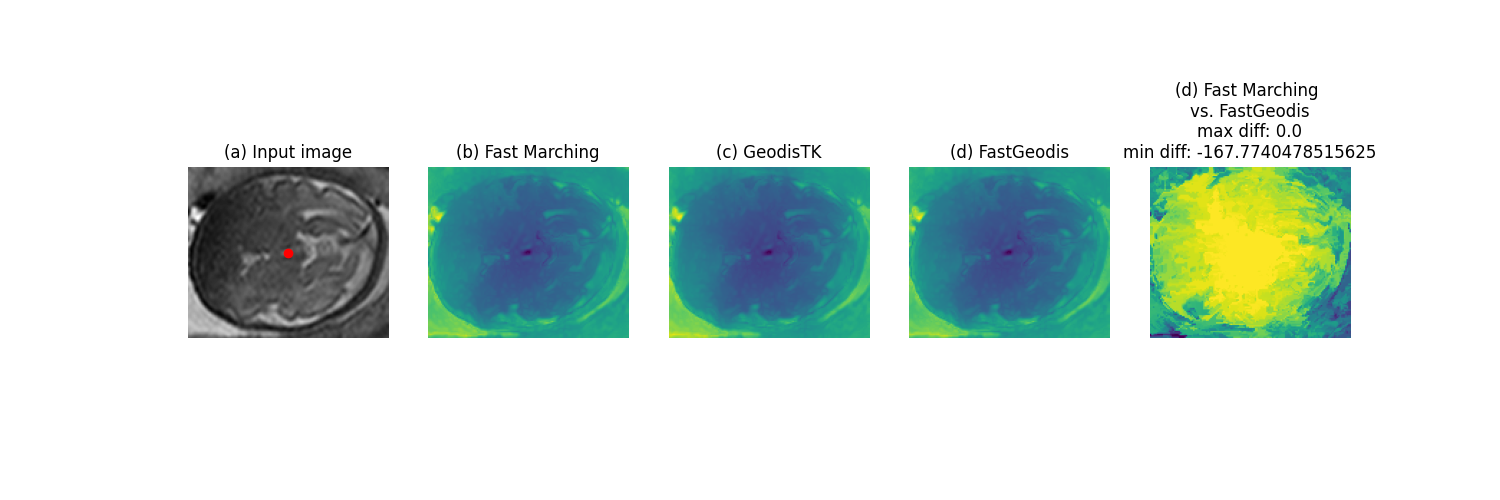
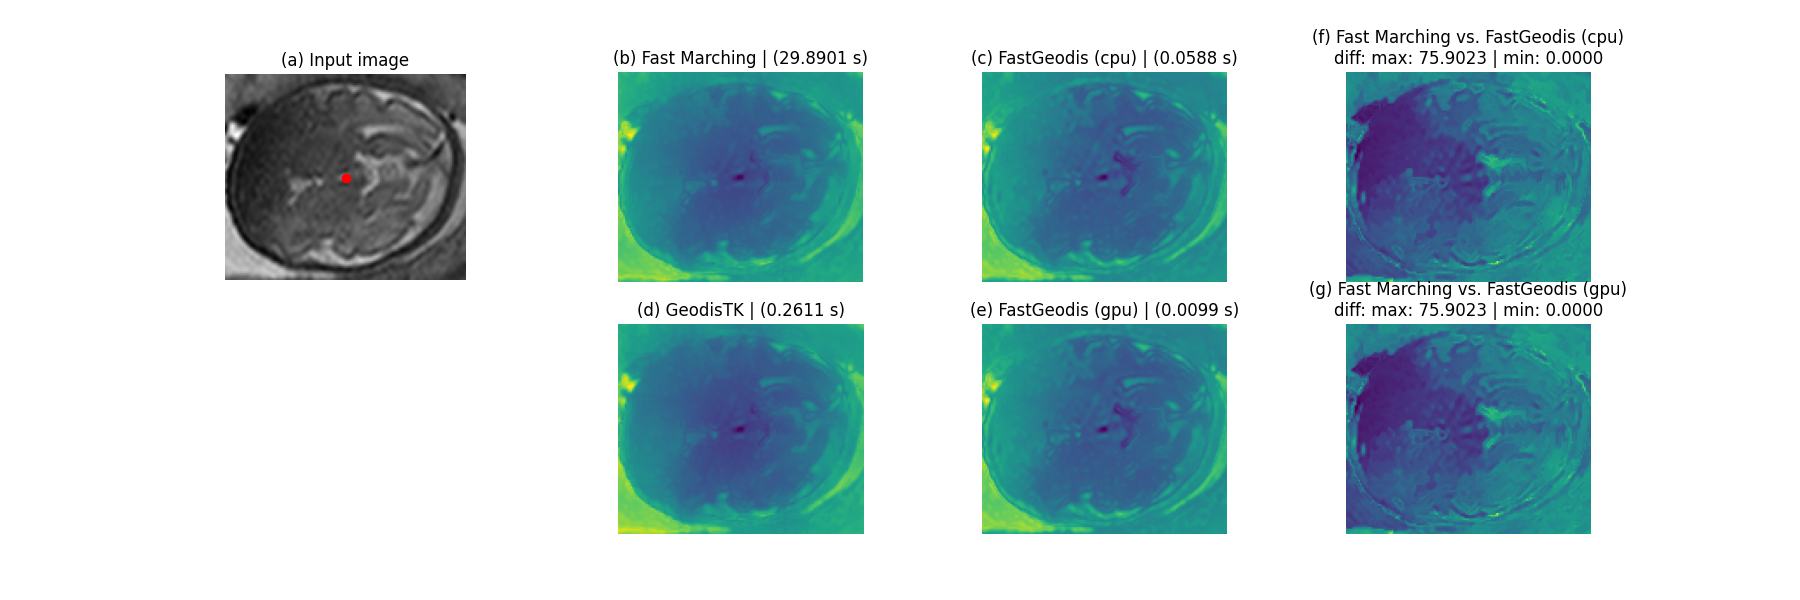
update demo codes

diff --git a/samples/demo3d.py b/samples/demo3d.py
@@ -1,13 +1,15 @@
 import math
+import os
 import time
 from functools import wraps
 
-import torch
 import FastGeodis
 import GeodisTK
 import matplotlib.pyplot as plt
 import numpy as np
 import SimpleITK as sitk
+import torch
+
 
 def geodistk_geodesic_distance_3d(I, S, spacing, lamb, iter):
     """Compute Geodesic Distance using GeodisTK raster scanning.
@@ -26,102 +28,177 @@ def geodistk_geodesic_distance_3d(I, S, spacing, lamb, iter):
     return GeodisTK.geodesic3d_raster_scan(I, S, spacing, lamb, iter)
 
 
-def demo_geodesic_distance3d():
+def demo_geodesic_distance3d(image_path, seed_pos):
     SHOW_JOINT_HIST = False
-    input_name = "data/img3d.nii.gz"
-    img = sitk.ReadImage(input_name)
-    I = sitk.GetArrayFromImage(img)
-    spacing_raw = img.GetSpacing()
+    image_folder = os.path.dirname(image_path)
+    image_sitk = sitk.ReadImage(image_path)
+    input_image = sitk.GetArrayFromImage(image_sitk)
+    spacing_raw = image_sitk.GetSpacing()
     spacing = [spacing_raw[2], spacing_raw[1], spacing_raw[0]]
-    I = np.asarray(I, np.float32)
-    I = I[18:38, 63:183, 93:233]
-    S = np.zeros_like(I, np.uint8)
-    S[10][60][70] = 1
-    t0 = time.time()
-    D1 = GeodisTK.geodesic3d_fast_marching(I, S, spacing)
-    t1 = time.time()
-    D2 = geodistk_geodesic_distance_3d(I, S, spacing, 1.0, 4)
-    dt1 = t1 - t0
-    dt2 = time.time() - t1
-    It = torch.from_numpy(I).unsqueeze_(0).unsqueeze_(0)
-    St = torch.from_numpy(1 - S.astype(np.float32)).unsqueeze_(0).unsqueeze_(0)
-    D3 = np.squeeze(
-        FastGeodis.generalised_geodesic3d(
-            It, St, spacing, 1e10, 1.0, 4
-        ).numpy()
+
+    input_image = np.asarray(input_image, np.float32)
+    input_image = input_image[18:38, 63:183, 93:233]
+    seed_image = np.zeros_like(input_image, np.uint8)
+    seed_image[seed_pos[0]][seed_pos[1]][seed_pos[2]] = 1
+
+    tic = time.time()
+    fastmarch_output = GeodisTK.geodesic3d_fast_marching(
+        input_image, seed_image, spacing
     )
-    print("runtime(s) fast marching {0:}".format(dt1))
-    print("runtime(s) raster scan   {0:}".format(dt2))
+    fastmarch_time = time.time() - tic
 
-    img_d1 = sitk.GetImageFromArray(D1)
-    img_d1.SetSpacing(spacing_raw)
-    sitk.WriteImage(img_d1, "data/image3d_dis1.nii.gz")
+    tic = time.time()
+    geodistkraster_output = geodistk_geodesic_distance_3d(
+        input_image, seed_image, spacing, 1.0, 4
+    )
+    geodistkraster_time = time.time() - tic
 
-    img_d2 = sitk.GetImageFromArray(D2)
-    img_d2.SetSpacing(spacing_raw)
-    sitk.WriteImage(img_d2, "data/image3d_dis2.nii.gz")
+    device = "cpu"
+    input_image_pt = torch.from_numpy(input_image).unsqueeze_(0).unsqueeze_(0)
+    seed_image_pt = (
+        torch.from_numpy(1 - seed_image.astype(np.float32)).unsqueeze_(0).unsqueeze_(0)
+    )
+    input_image_pt = input_image_pt.to(device)
+    seed_image_pt = seed_image_pt.to(device)
+    tic = time.time()
+    fastraster_output_cpu = np.squeeze(
+        FastGeodis.generalised_geodesic3d(
+            input_image_pt, seed_image_pt, spacing, 1e10, 1.0, 4
+        )
+        .detach()
+        .cpu()
+        .numpy()
+    )
+    fastraster_time_cpu = time.time() - tic
 
-    img_d3 = sitk.GetImageFromArray(D3)
+    device = (
+        "cuda" if input_image_pt.shape[1] == 1 and torch.cuda.is_available() else None
+    )
+    if device:
+        input_image_pt = input_image_pt.to(device)
+        seed_image_pt = seed_image_pt.to(device)
+        tic = time.time()
+        fastraster_output_gpu = np.squeeze(
+            FastGeodis.generalised_geodesic3d(
+                input_image_pt, seed_image_pt, spacing, 1e10, 1.0, 4
+            )
+            .detach()
+            .cpu()
+            .numpy()
+        )
+        fastraster_time_gpu = time.time() - tic
+
+    print(
+        "Fast Marching: {:.6f} s \nGeodisTk raster: {:.6f} s \nFastGeodis CPU raster: {:.6f} s".format(
+            fastmarch_time, geodistkraster_time, fastraster_time_cpu
+        )
+    )
+    if device:
+        print("FastGeodis GPU raster: {:.6f} s".format(fastraster_time_gpu))
+
+    img_fastmarch_output = sitk.GetImageFromArray(fastmarch_output)
+    img_fastmarch_output.SetSpacing(spacing_raw)
+    sitk.WriteImage(
+        img_fastmarch_output, os.path.join(image_folder, "image3d_dis1.nii.gz")
+    )
+
+    img_geodistkraster_output = sitk.GetImageFromArray(geodistkraster_output)
+    img_geodistkraster_output.SetSpacing(spacing_raw)
+    sitk.WriteImage(
+        img_geodistkraster_output, os.path.join(image_folder, "image3d_dis2.nii.gz")
+    )
+
+    img_d3 = sitk.GetImageFromArray(fastraster_output_cpu)
     img_d3.SetSpacing(spacing_raw)
-    sitk.WriteImage(img_d3, "data/image3d_dis3.nii.gz")
+    sitk.WriteImage(img_d3, os.path.join(image_folder, "image3d_dis3.nii.gz"))
 
-    I_sub = sitk.GetImageFromArray(I)
-    I_sub.SetSpacing(spacing_raw)
-    sitk.WriteImage(I_sub, "data/image3d_sub.nii.gz")
+    input_image_sub = sitk.GetImageFromArray(input_image)
+    input_image_sub.SetSpacing(spacing_raw)
+    sitk.WriteImage(input_image_sub, os.path.join(image_folder, "image3d_sub.nii.gz"))
 
-    I = I * 255 / I.max()
-    I = np.asarray(I, np.uint8)
+    input_image = input_image * 255 / input_image.max()
+    input_image = np.asarray(input_image, np.uint8)
 
-    I_slice = I[10]
-    D1_slice = D1[10]
-    D2_slice = D2[10]
-    D3_slice = D3[10]
-    plt.figure(figsize=(15, 5))
-    plt.subplot(1, 5, 1)
-    plt.imshow(I_slice, cmap="gray")
+    image_slice = input_image[10]
+    fastmarch_output_slice = fastmarch_output[10]
+    geodistkraster_output_slice = geodistkraster_output[10]
+    fastraster_output_cpu_slice = fastraster_output_cpu[10]
+    if device:
+        fastraster_output_gpu_slice = fastraster_output_gpu[10]
+
+    plt.figure(figsize=(18, 6))
+    plt.subplot(2, 5, 1)
+    plt.imshow(image_slice, cmap="gray")
     plt.autoscale(False)
     plt.plot([70], [60], "ro")
     plt.axis("off")
     plt.title("(a) Input image")
 
-    plt.subplot(1, 5, 2)
-    plt.imshow(D1_slice)
+    plt.subplot(2, 4, 2)
+    plt.imshow(fastmarch_output_slice)
     plt.axis("off")
-    plt.title("(b) Fast Marching")
+    plt.title("(b) Fast Marching | ({:.4f} s)".format(fastmarch_time))
 
-    plt.subplot(1, 5, 3)
-    plt.imshow(D2_slice)
+    plt.subplot(2, 4, 3)
+    plt.imshow(fastraster_output_cpu_slice)
     plt.axis("off")
-    plt.title("(c) GeodisTK")
+    plt.title("(c) FastGeodis (cpu) | ({:.4f} s)".format(fastraster_time_cpu))
 
-    plt.subplot(1, 5, 4)
-    plt.imshow(D3_slice)
+    plt.subplot(2, 4, 6)
+    plt.imshow(geodistkraster_output_slice)
     plt.axis("off")
-    plt.title("(d) FastGeodis")
+    plt.title("(d) GeodisTK | ({:.4f} s)".format(geodistkraster_time))
 
-    diff = D1 - D3
-    diff_slice = diff[10]
-    plt.subplot(1, 5, 5)
+    if device:
+        plt.subplot(2, 4, 7)
+        plt.imshow(fastraster_output_gpu_slice)
+        plt.axis("off")
+        plt.title("(e) FastGeodis (gpu) | ({:.4f} s)".format(fastraster_time_gpu))
+
+    diff = (
+        abs(fastmarch_output - fastraster_output_cpu) / (fastmarch_output + 1e-7) * 100
+    )
+    diff_vol = fastmarch_output - fastraster_output_cpu
+    diff_slice = diff_vol[10]
+    plt.subplot(2, 4, 4)
     plt.imshow(diff_slice)
     plt.axis("off")
     plt.title(
-        "(d) Fast Marching \nvs. FastGeodis\nmax diff: {}\nmin diff: {}".format(
+        "(f) Fast Marching vs. FastGeodis (cpu)\ndiff: max: {:.4f} | min: {:.4f}".format(
             np.max(diff), np.min(diff)
         )
     )
+
+    if device:
+        diff = (
+            abs(fastmarch_output - fastraster_output_gpu)
+            / (fastmarch_output + 1e-7)
+            * 100
+        )
+        diff_vol = fastmarch_output - fastraster_output_gpu
+        diff_slice = diff_vol[10]
+        plt.subplot(2, 4, 8)
+        plt.imshow(diff_slice)
+        plt.axis("off")
+        plt.title(
+            "(g) Fast Marching vs. FastGeodis (gpu)\ndiff: max: {:.4f} | min: {:.4f}".format(
+                np.max(diff), np.min(diff)
+            )
+        )
+
     plt.show()
 
-    if SHOW_JOINT_HIST: 
+    if SHOW_JOINT_HIST:
         plt.figure()
         plt.subplot(1, 2, 1)
-        plt.hist2d(D1.flatten(), D2.flatten(), bins=50)
+        plt.hist2d(fastmarch_output.flatten(), geodistkraster_output.flatten(), bins=50)
         plt.xlabel("Fast Marching")
         plt.ylabel("GeodisTK")
         plt.title("Joint histogram\nFast Marching vs. GeodisTK")
         # plt.gca().set_aspect("equal", adjustable="box")
 
         plt.subplot(1, 2, 2)
-        plt.hist2d(D1.flatten(), D3.flatten(), bins=50)
+        plt.hist2d(fastmarch_output.flatten(), fastraster_output_cpu.flatten(), bins=50)
         plt.xlabel("Fast Marching")
         plt.ylabel("FastGeodis")
         plt.title("Joint histogram\nFast Marching vs. FastGeodis")
@@ -132,4 +209,4 @@ def demo_geodesic_distance3d():
 
 
 if __name__ == "__main__":
-    demo_geodesic_distance3d()
+    demo_geodesic_distance3d("data/img3d.nii.gz", [10, 60, 70])

diff --git a/samples/demo2d.py b/samples/demo2d.py
@@ -26,8 +26,8 @@ def geodesic_distance_2d(I, S, lamb, iter):
 def evaluate_geodesic_distance2d(image, seed_pos):
     SHOW_JOINT_HIST = False
     # get image and create seed image
-    Image = np.asanyarray(image, np.float32)
-    Seed = np.zeros((Image.shape[0], Image.shape[1]), np.float32)
+    input_image = np.asanyarray(image, np.float32)
+    Seed = np.zeros((input_image.shape[0], input_image.shape[1]), np.float32)
     Seed[seed_pos[0]][seed_pos[1]] = 1
 
     # run and time each method
@@ -36,23 +36,23 @@ def evaluate_geodesic_distance2d(image, seed_pos):
     lamb = 1.0
 
     tic = time.time()
-    fastmarch_output = GeodisTK.geodesic2d_fast_marching(Image, Seed.astype(np.uint8))
+    fastmarch_output = GeodisTK.geodesic2d_fast_marching(input_image, Seed.astype(np.uint8))
     fastmarch_time = time.time() - tic
 
     tic = time.time()
     geodistkraster_output = geodesic_distance_2d(
-        Image, Seed.astype(np.uint8), lamb, iterations
+        input_image, Seed.astype(np.uint8), lamb, iterations
     )
     geodistkraster_time = time.time() - tic
 
-    if Image.ndim == 3:
-        Image = np.moveaxis(Image, -1, 0)
+    if input_image.ndim == 3:
+        input_image = np.moveaxis(input_image, -1, 0)
     else:
-        Image = np.expand_dims(Image, 0)
+        input_image = np.expand_dims(input_image, 0)
 
     device = "cpu"
-    It = torch.from_numpy(Image).unsqueeze_(0).to(device)
-    St = (
+    input_image_pt = torch.from_numpy(input_image).unsqueeze_(0).to(device)
+    seed_image_pt = (
         torch.from_numpy(1 - Seed.astype(np.float32))
         .unsqueeze_(0)
         .unsqueeze_(0)
@@ -61,18 +61,18 @@ def evaluate_geodesic_distance2d(image, seed_pos):
 
     tic = time.time()
     fastraster_output_cpu = np.squeeze(
-        FastGeodis.generalised_geodesic2d(It, St, v, lamb, iterations).cpu().numpy()
+        FastGeodis.generalised_geodesic2d(input_image_pt, seed_image_pt, v, lamb, iterations).cpu().numpy()
     )
     fastraster_time_cpu = time.time() - tic
 
-    device = "cuda" if It.shape[1] == 1 and torch.cuda.is_available() else None
+    device = "cuda" if input_image_pt.shape[1] == 1 and torch.cuda.is_available() else None
     if device:
-        It = It.to(device)
-        St = St.to(device)
+        input_image_pt = input_image_pt.to(device)
+        seed_image_pt = seed_image_pt.to(device)
 
         tic = time.time()
         fastraster_output_gpu = np.squeeze(
-            FastGeodis.generalised_geodesic2d(It, St, v, lamb, iterations).cpu().numpy()
+            FastGeodis.generalised_geodesic2d(input_image_pt, seed_image_pt, v, lamb, iterations).cpu().numpy()
         )
         fastraster_time_gpu = time.time() - tic
 

diff --git a/samples/simpledemo2d.py b/samples/simpledemo2d.py
@@ -14,18 +14,30 @@ mask_pt = torch.ones_like(image_pt)
 mask_pt[..., 100, 100] = 0
 
 v = 1e10
-lamb = 1.0
 iterations = 2
+
+lamb = 1.0 # <-- Geodesic distance transform
 geodesic_dist = FastGeodis.generalised_geodesic2d(
-    image_pt, mask_pt, v, lamb, 1 - lamb, iterations
+    image_pt, mask_pt, v, lamb, iterations
 )
 geodesic_dist = np.squeeze(geodesic_dist.cpu().numpy())
 
+lamb=0.0 # <-- Euclidean distance transform
+euclidean_dist = FastGeodis.generalised_geodesic2d(
+    image_pt, mask_pt, v, lamb, iterations
+)
+euclidean_dist = np.squeeze(euclidean_dist.cpu().numpy())
+
 plt.figure()
-plt.subplot(1, 2, 1)
+plt.subplot(1, 3, 1)
 plt.imshow(image)
 
-plt.subplot(1, 2, 2)
+plt.subplot(1, 3, 2)
 plt.imshow(geodesic_dist)
 plt.plot(100, 100, "mo")
+
+plt.subplot(1, 3, 3)
+plt.imshow(euclidean_dist)
+plt.plot(100, 100, "mo")
+
 plt.show()
